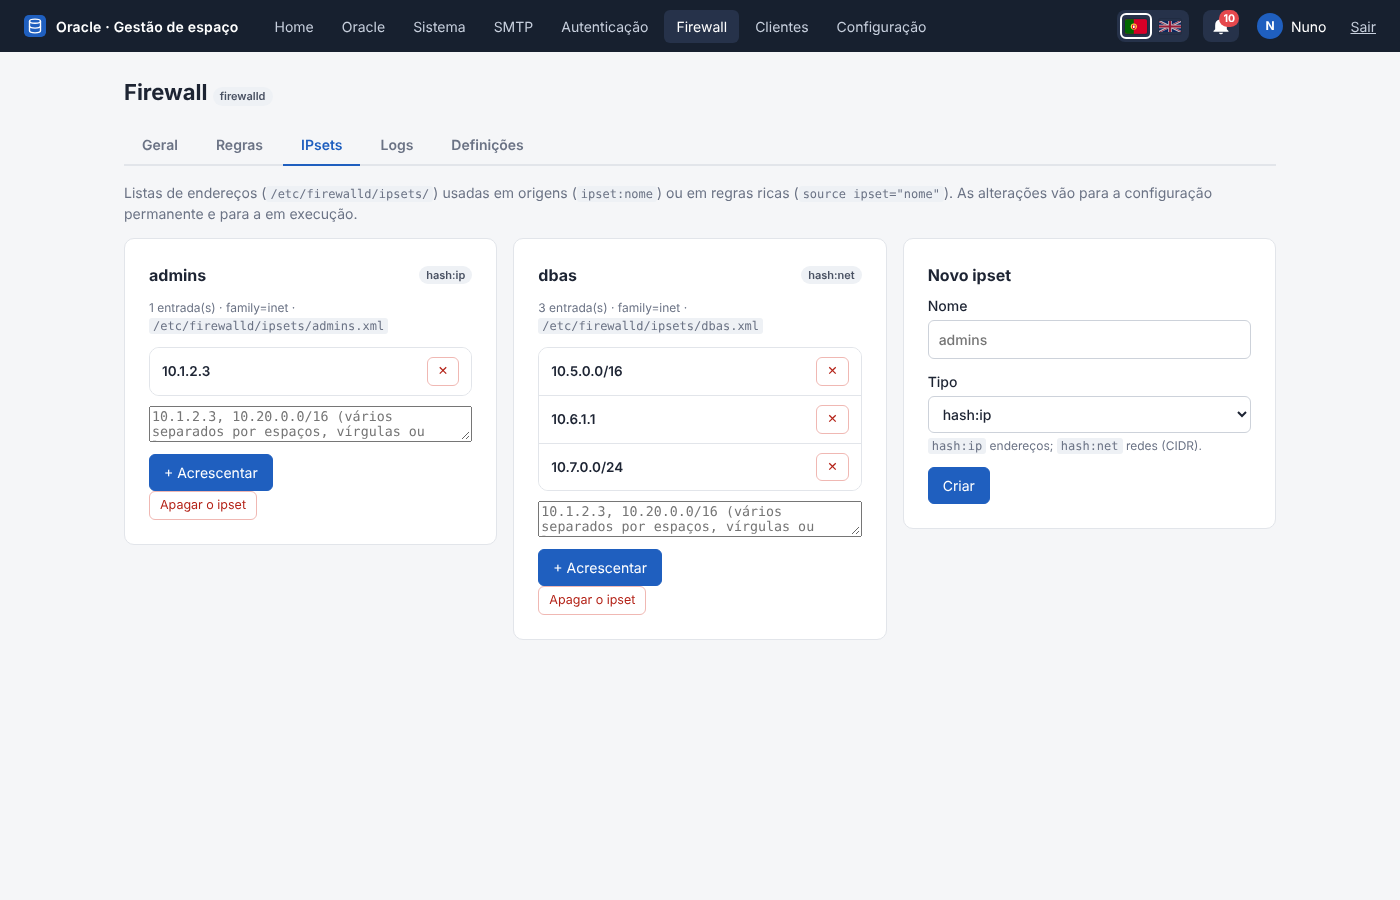
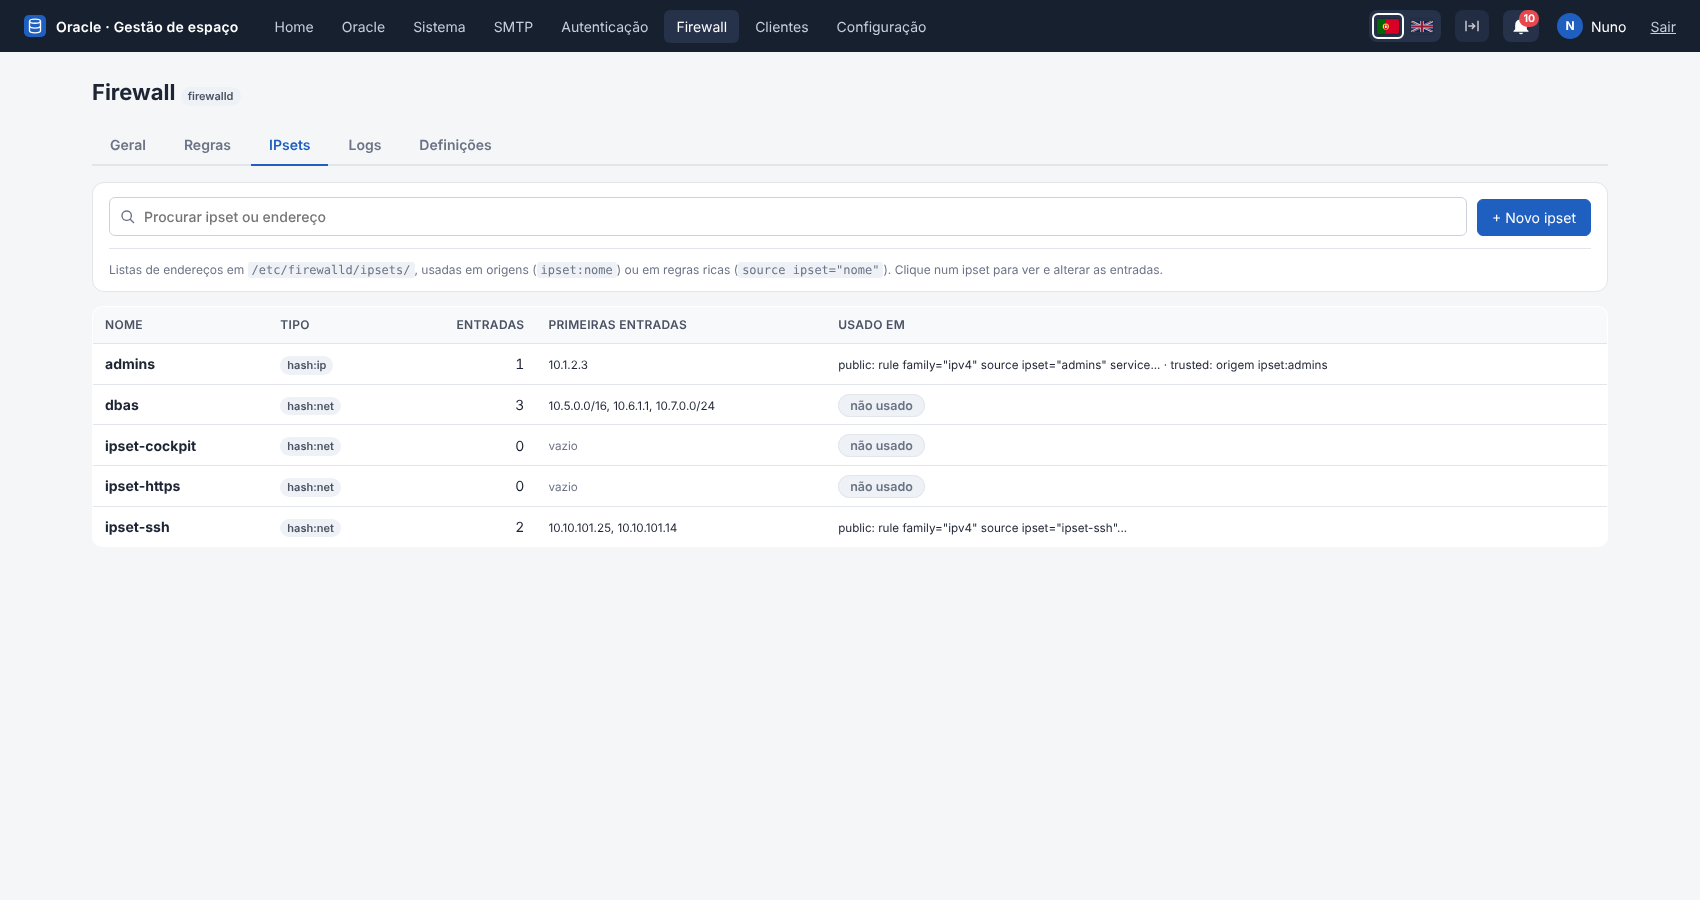
portal-oracle: ipsets em tabela com pagina por ipset; largura da pagina (auto/larga/normal)

diff --git a/docker/portal-oracle/app/modules/firewall/templates/firewall/ipsets.html b/docker/portal-oracle/app/modules/firewall/templates/firewall/ipsets.html
@@ -5,43 +5,50 @@
 {% if erro %}<div class="flash error" translate="no">{{ erro }}</div>{% endif %}
 {% if est.backend == 'ufw' %}<p class="muted">O ufw não tem ipsets (são do firewalld).</p>
 {% elif est.ativo %}
-<p class="muted">Listas de endereços (<code>/etc/firewalld/ipsets/</code>) usadas em origens (<code>ipset:nome</code>) ou em regras ricas
-  (<code>source ipset="nome"</code>). As alterações vão para a configuração permanente e para a em execução.</p>
-<div class="fw-grid">
-{% for s in ipsets %}
-<section class="card">
-  <div class="modulo-head"><h2 translate="no">{{ s.nome }}</h2><span class="tag" translate="no">{{ s.tipo }}</span></div>
-  <p class="muted small"><span>{{ s.n }} entrada(s)</span>{% if s.opcoes %} · <span translate="no">{{ s.opcoes }}</span>{% endif %} · <code translate="no">{{ s.ficheiro }}</code></p>
-  <div class="lista ipset-lista">{% for e in s.entradas[:300] %}<div class="lrow"><span class="lrow-t"><b translate="no">{{ e }}</b></span>
-    {% if pode %}<form method="post" action="{{ url_for('firewall.acao') }}" class="inline-form"><input type="hidden" name="csrf" value="{{ csrf_token }}">
-      <input type="hidden" name="acao" value="ipset_del"><input type="hidden" name="ipset" value="{{ s.nome }}"><input type="hidden" name="entrada" value="{{ e }}">
-      <input type="hidden" name="voltar" value="{{ request.path }}"><button class="small danger" aria-label="Retirar">✕</button></form>{% endif %}</div>
-  {% else %}<p class="muted small">Vazio.</p>{% endfor %}</div>
-  {% if s.n > 300 %}<p class="hint">… e mais {{ s.n - 300 }}.</p>{% endif %}
-  {% if pode %}
-  <form method="post" action="{{ url_for('firewall.acao') }}" class="stack fw-add">
-    <input type="hidden" name="csrf" value="{{ csrf_token }}"><input type="hidden" name="acao" value="ipset_add"><input type="hidden" name="ipset" value="{{ s.nome }}">
-    <input type="hidden" name="voltar" value="{{ request.path }}">
-    <textarea name="entrada" rows="2" placeholder="10.1.2.3, 10.20.0.0/16 (vários separados por espaços, vírgulas ou linhas)" translate="no" required></textarea>
-    <div class="buttons"><button class="primary">+ Acrescentar</button></div></form>
-  <form method="post" action="{{ url_for('firewall.acao') }}" onsubmit="return confirm('Apagar o ipset {{ s.nome }}? Regras que o usem deixam de funcionar.')">
-    <input type="hidden" name="csrf" value="{{ csrf_token }}"><input type="hidden" name="acao" value="ipset_apagar"><input type="hidden" name="ipset" value="{{ s.nome }}">
-    <input type="hidden" name="voltar" value="{{ request.path }}"><button class="small danger">Apagar o ipset</button></form>
-  {% endif %}
+<section class="jx-filtros">
+  <div class="jx-toolbar">
+    <label class="jx-search"><svg viewBox="0 0 24 24" width="16" height="16" aria-hidden="true"><path fill="currentColor" d="M10 2a8 8 0 0 1 6.32 12.9l5.39 5.4-1.42 1.4-5.39-5.38A8 8 0 1 1 10 2Zm0 2a6 6 0 1 0 0 12 6 6 0 0 0 0-12Z"/></svg>
+      <input type="search" id="q" placeholder="Procurar ipset ou endereço" autocomplete="off"></label>
+    {% if pode %}<button type="button" class="primary" id="bnovo">+ Novo ipset</button>{% endif %}
+  </div>
+  <div class="jx-linha2"><span class="muted small">Listas de endereços em <code>/etc/firewalld/ipsets/</code>, usadas em origens (<code>ipset:nome</code>)
+    ou em regras ricas (<code>source ipset="nome"</code>). Clique num ipset para ver e alterar as entradas.</span></div>
 </section>
-{% else %}<p class="muted">Não há ipsets.</p>{% endfor %}
+<div class="table-wrap"><table class="bd-tab" id="tab">
+  <thead><tr><th>Nome</th><th>Tipo</th><th class="num">Entradas</th><th>Primeiras entradas</th><th>Usado em</th></tr></thead>
+  <tbody>{% for s in ipsets %}{% set u = uso.get(s.nome, []) %}
+  <tr class="bd-linha" tabindex="0" data-href="{{ url_for('firewall.ipset', nome=s.nome) }}" data-txt="{{ (s.nome ~ ' ' ~ s.entradas|join(' '))|lower }}">
+    <td><b translate="no">{{ s.nome }}</b></td>
+    <td><span class="tag" translate="no">{{ s.tipo }}</span></td>
+    <td class="num">{{ s.n }}</td>
+    <td translate="no"><small>{{ s.entradas[:4]|join(', ') }}{% if s.n > 4 %} … (+{{ s.n - 4 }}){% endif %}{% if not s.n %}<span class="muted">vazio</span>{% endif %}</small></td>
+    <td>{% if u %}<small translate="no" title="{{ u|join('\n') }}">{{ u|map('truncate', 60)|join(' · ') if u|length < 3 else (u[0]|truncate(50)) ~ ' … +' ~ (u|length - 1) }}</small>
+        {% else %}<span class="sys-pill off">não usado</span>{% endif %}</td>
+  </tr>{% else %}<tr><td colspan="5" class="muted">Não há ipsets.</td></tr>{% endfor %}</tbody></table></div>
+
 {% if pode %}
-<section class="card">
-  <h2>Novo ipset</h2>
-  <form method="post" action="{{ url_for('firewall.acao') }}" class="stack">
+<dialog id="dnovo" class="jx-dlg">
+  <div class="jx-dlg-head"><div><h2>Novo ipset</h2></div><button type="button" class="small" id="dfechar" aria-label="Fechar">✕</button></div>
+  <form method="post" action="{{ url_for('firewall.acao') }}" class="stack dlg-corpo">
     <input type="hidden" name="csrf" value="{{ csrf_token }}"><input type="hidden" name="acao" value="ipset_novo"><input type="hidden" name="voltar" value="{{ request.path }}">
-    <label>Nome <input name="ipset" pattern="[A-Za-z0-9_.\-]{1,40}" required translate="no" placeholder="admins"></label>
-    <label>Tipo <select name="tipo">{% for t in tipos %}<option>{{ t }}</option>{% endfor %}</select>
-      <span class="hint"><code>hash:ip</code> endereços; <code>hash:net</code> redes (CIDR).</span></label>
+    <label>Nome <input name="ipset" pattern="[A-Za-z0-9_.\-]{1,40}" required translate="no" placeholder="ipset-oracle"></label>
+    <label>Tipo <select name="tipo">{% for t in tipos %}<option {{ 'selected' if t == 'hash:net' }}>{{ t }}</option>{% endfor %}</select>
+      <span class="hint"><code>hash:ip</code> endereços; <code>hash:net</code> redes (CIDR) e endereços.</span></label>
     <div class="buttons"><button class="primary">Criar</button></div>
   </form>
-</section>
+</dialog>
 {% endif %}
-</div>
 {% endif %}
+{% endblock %}
+{% block scripts %}
+<script>
+(() => {
+  const q = document.getElementById('q'); if (!q) return;
+  q.oninput = () => { const v = q.value.toLowerCase(); document.querySelectorAll('#tab tbody tr[data-txt]').forEach(tr => tr.hidden = v && !tr.dataset.txt.includes(v)); };
+  document.querySelectorAll('#tab tbody tr[data-href]').forEach(tr => { tr.onclick = () => location.href = tr.dataset.href;
+    tr.onkeydown = e => { if (e.key === 'Enter') location.href = tr.dataset.href; }; });
+  const d = document.getElementById('dnovo');
+  if (d) { document.getElementById('bnovo').onclick = () => d.showModal(); document.getElementById('dfechar').onclick = () => d.close(); }
+})();
+</script>
 {% endblock %}

diff --git a/docker/portal-oracle/app/modules/firewall/templates/firewall/ipset.html b/docker/portal-oracle/app/modules/firewall/templates/firewall/ipset.html
@@ -1,0 +1,57 @@
+{% extends "base.html" %}
+{% block title %}Firewall · IPset {{ s.nome if s }}{% endblock %}
+{% block content %}
+{% include "firewall/_tabs.html" %}
+<p><a href="{{ url_for('firewall.ipsets') }}">← IPsets</a></p>
+{% if erro %}<div class="flash error" translate="no">{{ erro }}</div>{% endif %}
+{% if s %}
+<div class="modulo-head"><h2><span translate="no">{{ s.nome }}</span> <span class="tag" translate="no">{{ s.tipo }}</span></h2>
+  {% if pode %}<form method="post" action="{{ url_for('firewall.acao') }}" onsubmit="return confirm('Apagar o ipset {{ s.nome }}? Regras que o usem deixam de funcionar.')">
+    <input type="hidden" name="csrf" value="{{ csrf_token }}"><input type="hidden" name="acao" value="ipset_apagar"><input type="hidden" name="ipset" value="{{ s.nome }}">
+    <input type="hidden" name="voltar" value="{{ url_for('firewall.ipsets') }}"><button class="small danger">Apagar o ipset</button></form>{% endif %}</div>
+<div class="fw-ipset">
+<section class="card full">
+  <div class="modulo-head"><h2>Entradas <span class="muted small">({{ s.n }})</span></h2>
+    <label class="jx-search fw-q"><input type="search" id="q" placeholder="Filtrar" value="{{ q }}" autocomplete="off"></label></div>
+  <div class="table-wrap"><table class="small-tab" id="tab">
+    <thead><tr><th>Endereço / rede</th><th></th></tr></thead>
+    <tbody>{% for e in s.entradas %}<tr data-txt="{{ e|lower }}"><td translate="no"><b>{{ e }}</b></td>
+      <td class="num">{% if pode %}<form method="post" action="{{ url_for('firewall.acao') }}" class="inline-form" onsubmit="return confirm('Retirar {{ e }}?')">
+        <input type="hidden" name="csrf" value="{{ csrf_token }}"><input type="hidden" name="acao" value="ipset_del"><input type="hidden" name="ipset" value="{{ s.nome }}">
+        <input type="hidden" name="entrada" value="{{ e }}"><input type="hidden" name="voltar" value="{{ request.path }}">
+        <button class="small danger" aria-label="Retirar" title="Retirar">✕</button></form>{% endif %}</td></tr>
+    {% else %}<tr><td colspan="2" class="muted">Vazio.</td></tr>{% endfor %}</tbody></table></div>
+</section>
+<div class="fw-lado">
+  {% if pode %}
+  <section class="card full">
+    <h2>Acrescentar</h2>
+    <form method="post" action="{{ url_for('firewall.acao') }}" class="stack">
+      <input type="hidden" name="csrf" value="{{ csrf_token }}"><input type="hidden" name="acao" value="ipset_add"><input type="hidden" name="ipset" value="{{ s.nome }}">
+      <input type="hidden" name="voltar" value="{{ request.path }}">
+      <textarea name="entrada" rows="5" placeholder="10.1.2.3&#10;10.20.0.0/16" translate="no" required></textarea>
+      <span class="hint">Vários separados por espaços, vírgulas ou linhas (até 500).</span>
+      <div class="buttons"><button class="primary">+ Acrescentar</button></div></form>
+  </section>
+  {% endif %}
+  <section class="card full">
+    <h2>Informação</h2>
+    {% from "_cartoes.html" import kv %}
+    {{ kv([('Tipo', s.tipo), ('Opções', s.opcoes), ('Ficheiro', s.ficheiro)]) }}
+    <h3>Usado em</h3>
+    {% if usado %}<ul class="fw-uso" translate="no">{% for u in usado %}<li><code>{{ u }}</code></li>{% endfor %}</ul>
+    {% else %}<p class="muted small">Em nenhuma origem nem regra rica (configuração permanente).</p>{% endif %}
+    <p class="hint">Usar numa zona: Regras → Origens com <code translate="no">ipset:{{ s.nome }}</code>, ou numa regra rica com
+      <code translate="no">source ipset="{{ s.nome }}"</code>.</p>
+  </section>
+</div>
+</div>
+{% endif %}
+{% endblock %}
+{% block scripts %}
+<script>
+(() => { const q = document.getElementById('q'); if (!q) return;
+  const f = () => { const v = q.value.toLowerCase(); document.querySelectorAll('#tab tbody tr[data-txt]').forEach(tr => tr.hidden = v && !tr.dataset.txt.includes(v)); };
+  q.oninput = f; f(); })();
+</script>
+{% endblock %}

diff --git a/docker/portal-oracle/app/templates/base.html b/docker/portal-oracle/app/templates/base.html
@@ -6,6 +6,7 @@
   <title>{% block title %}{% endblock %} · {{ portal_name }}</title>
   <link rel="icon" href="{{ url_for('portal.favicon', v=favicon_ver) }}">
   <link rel="stylesheet" href="{{ url_for('static', filename='style.css', v=static_v) }}">
+  <script>try { document.documentElement.dataset.largura = localStorage.getItem('portal.largura') || 'auto'; } catch (e) {}</script>
   {% if lingua != 'pt' %}
   <style>html.i18n body { visibility: hidden; }</style>
   <script src="{{ url_for('portal.i18n_js', codigo=lingua, v=i18n_v) }}"></script>
@@ -41,6 +42,8 @@
     {% endif %}
   {% if user %}
     {% if not pagina_minima %}
+    <button type="button" class="largura-btn" id="largura" title="Largura da página" aria-label="Largura da página">
+      <svg viewBox="0 0 24 24" width="18" height="18" aria-hidden="true"><path fill="currentColor" d="M3 5h2v14H3V5Zm16 0h2v14h-2V5ZM7 11h6.2l-2.1-2.1 1.4-1.4L17 12l-4.5 4.5-1.4-1.4 2.1-2.1H7v-2Z"/></svg></button>
     <div class="bell-wrap">
       <button type="button" class="bell" id="bell" title="Notificações" aria-label="Notificações">
         <svg viewBox="0 0 24 24" width="20" height="20" aria-hidden="true"><path fill="currentColor" d="M12 22a2.5 2.5 0 0 0 2.45-2h-4.9A2.5 2.5 0 0 0 12 22Zm7-6V11a7 7 0 0 0-5-6.7V3.5a2 2 0 1 0-4 0v.8A7 7 0 0 0 5 11v5l-2 2v1h18v-1l-2-2Z"/></svg>
@@ -109,5 +112,17 @@ document.querySelectorAll('[data-lingua]').forEach(b => b.onclick = async () => 
 </script>
 {% endif %}
 {% block scripts %}{% endblock %}
+<script>
+(() => {
+  const b = document.getElementById('largura'); if (!b) return;
+  const MODOS = ['auto', 'largo', 'normal'], NOMES = {auto: 'Largura automática (aproveita ecrãs grandes)', largo: 'Toda a largura da janela', normal: 'Largura normal (centrada)'};
+  const tt = s => (window.t || (x => x))(s);
+  const pinta = () => { const m = document.documentElement.dataset.largura || 'auto'; b.title = tt(NOMES[m]) + ' · ' + tt('clique para mudar');
+    b.style.transform = m === 'normal' ? 'scaleX(-1)' : ''; b.style.opacity = m === 'auto' ? '.75' : '1'; };
+  b.onclick = () => { const h = document.documentElement, m = MODOS[(MODOS.indexOf(h.dataset.largura || 'auto') + 1) % 3];
+    h.dataset.largura = m; try { localStorage.setItem('portal.largura', m); } catch (e) {} pinta(); };
+  pinta();
+})();
+</script>
 </body>
 </html>

diff --git a/docker/portal-oracle/app/static/style.css b/docker/portal-oracle/app/static/style.css
@@ -660,3 +660,20 @@ tr.clicavel:hover td { background: var(--hover); }
 .ev-msg { white-space: pre-wrap; word-break: break-word; max-width: 560px; font-family: var(--mono, monospace); font-size: 12px; }
 .nowrap { white-space: nowrap; }
 .inst .tok { color: var(--accent, #2563eb); font-weight: 600; }
+.fw-ipset { display: grid; grid-template-columns: minmax(0, 1.4fr) minmax(300px, 1fr); gap: 16px; align-items: start; }
+.fw-lado { display: grid; gap: 16px; }
+.fw-ipset .card { max-width: none; }
+.fw-q input { min-width: 200px; }
+.fw-uso { margin: 6px 0; padding-left: 18px; }
+.fw-uso code { white-space: normal; word-break: break-all; }
+td.num, th.num { text-align: right; }
+@media (max-width: 900px) { .fw-ipset { grid-template-columns: 1fr; } }
+
+/* Largura da area central: auto (aproveita ecras grandes), largo (toda a janela) ou normal (1200 px) */
+main { max-width: max(1200px, min(92vw, 1760px)); }
+html[data-largura="largo"] main { max-width: none; }
+html[data-largura="normal"] main { max-width: 1200px; }
+html[data-largura="largo"] .card:not(.narrow) { max-width: none; }
+.largura-btn { display: inline-flex; align-items: center; justify-content: center; width: 34px; height: 32px; border: 0; border-radius: 8px;
+  background: var(--top-hover); color: inherit; cursor: pointer; padding: 0; }
+.largura-btn:hover { filter: brightness(1.15); }

diff --git a/docker/portal-oracle/app/modules/firewall/views.py b/docker/portal-oracle/app/modules/firewall/views.py
@@ -1,5 +1,5 @@
 """Rotas do modulo Firewall."""
-from flask import flash, g, jsonify, redirect, render_template, request, url_for
+from flask import abort, flash, g, jsonify, redirect, render_template, request, url_for
 
 from ... import auth, firewall, sistema_info
 from . import bp, MODULO
@@ -45,13 +45,30 @@ def regras():
 @auth.requires(MODULO.acesso)
 def ipsets():
     c = _ctx()
-    lista, erro = [], ""
+    lista, erro, uso = [], "", {}
     try:
         if c["est"].get("backend") == "firewalld" and c["est"].get("ativo"):
             lista = firewall.ipsets()
+            uso = firewall.uso_ipsets(c["est"].get("zonas", []))
     except ValueError as exc:
         erro = str(exc)
-    return render_template("firewall/ipsets.html", ipsets=lista, erro=erro, tipos=firewall.TIPOS_IPSET, **c)
+    return render_template("firewall/ipsets.html", ipsets=lista, erro=erro, uso=uso, tipos=firewall.TIPOS_IPSET, **c)
+
+
+@bp.route("/ipsets/<nome>")
+@auth.requires(MODULO.acesso)
+def ipset(nome):
+    c = _ctx()
+    s, erro, usado = None, "", []
+    try:
+        if c["est"].get("backend") == "firewalld" and c["est"].get("ativo"):
+            s = next((x for x in firewall.ipsets() if x["nome"] == nome), None)
+            if not s:
+                abort(404)
+            usado = firewall.uso_ipsets(c["est"].get("zonas", [])).get(nome, [])
+    except ValueError as exc:
+        erro = str(exc)
+    return render_template("firewall/ipset.html", s=s, erro=erro, usado=usado, q=request.args.get("q", ""), **c)
 
 
 @bp.route("/logs")

diff --git a/docker/portal-oracle/app/firewall.py b/docker/portal-oracle/app/firewall.py
@@ -164,6 +164,23 @@ def ipsets() -> list[dict]:
     return lista
 
 
+def uso_ipsets(zonas: list) -> dict:
+    """{ipset: [onde e usado]}: origens (ipset:nome) e regras ricas (ipset="nome"), por zona (permanente)."""
+    out: dict = {}
+    for z in zonas:
+        try:
+            d = zona(z, True)
+        except ValueError:
+            continue
+        for src in d.get("sources", []):
+            if src.startswith("ipset:"):
+                out.setdefault(src[6:], []).append(f"{z}: origem {src}")
+        for r in d.get("rich rules", []):
+            for n in re.findall(r'ipset="([^"]+)"', r):
+                out.setdefault(n, []).append(f"{z}: {r}")
+    return out
+
+
 def regras_ufw() -> list[dict]:
     rc, out = ufw("status", "numbered")
     if rc != 0:

diff --git a/docker/portal-oracle/README.md b/docker/portal-oracle/README.md
@@ -346,7 +346,7 @@ Ver e alterar a firewall do servidor do portal. Ative-o em **Configuração → 
 |---|---|
 | Geral | Estado (ativa/parada, versão), zona por omissão, LogDenied, modo pânico, zonas ativas (interfaces e origens), **Recarregar** e as últimas alterações feitas pelo portal (comando, utilizador e resultado) |
 | Regras | Por zona e por configuração (em execução / permanente): serviços, portas, origens (IP, rede ou `ipset:nome`), regras ricas e outros (target, masquerade, forward). No ufw, as regras numeradas. Acrescentar e apagar |
-| IPsets | Os ipsets (`/etc/firewalld/ipsets/`) com o tipo e as entradas; criar, apagar, acrescentar várias entradas de uma vez e retirar |
+| IPsets | Tabela dos ipsets (`/etc/firewalld/ipsets/`): tipo, número e primeiras entradas, e onde são usados (origens e regras ricas). Clicar abre o ipset: entradas com filtro, acrescentar várias de uma vez, retirar, apagar o ipset |
 | Logs | Registo do serviço `firewalld` e pacotes recusados (registo do kernel), com filtro |
 | Definições | Versão, ficheiros de configuração, serviços predefinidos, LogDenied, modo pânico e as permissões do portal |
 
@@ -365,6 +365,7 @@ Sem isto, as abas mostram o comando a correr. Iniciar, parar e reiniciar o `fire
 ![Firewall](docs/firewall.png)
 ![Firewall - Regras](docs/firewall-regras.png)
 ![Firewall - IPsets](docs/firewall-ipsets.png)
+![Firewall - um ipset](docs/firewall-ipset.png)
 
 ---
 
@@ -1167,6 +1168,8 @@ Só é preciso refazer a imagem (`docker-compose build`) para mudar o sistema ba
 ---
 
 ## Aparência: título, rodapé, ícone e tema
+
+**Largura da página:** o botão ao lado das notificações alterna entre *automática* (por omissão: centrada e alarga em ecrãs grandes, até 92 % da janela), *toda a largura* e *normal* (1200 px). Fica guardada no browser de cada utilizador.
 
 Em **Configuração → Aparência → Geral** (permissão `config.portal`; a sub-aba **Linguagem** está em [Línguas](#línguas-português-e-inglês)):
 

diff --git a/docker/portal-oracle/CONVERSA.md b/docker/portal-oracle/CONVERSA.md
@@ -366,3 +366,10 @@ Chat de 20 de novembro de 2026. Pedido grande, feito por fases (cada uma com o s
 **Resposta — fase 3, módulo Firewall:** firewalld ou ufw (deteção automática), abas Geral (estado, zonas ativas, recarregar, histórico de alterações), Regras (serviços, portas, origens, regras ricas por zona; regras numeradas no ufw), IPsets (criar, apagar, entradas), Logs (serviço e pacotes recusados) e Definições (versão, LogDenied, modo pânico). Permissões com `instalar.sh --firewall <nome> on`.
 
 **Resposta — fase 4, agente cliente (módulo Clientes):** clientes em Configuração → Clientes (nome, IP/DNS, VM, Debian ou Red Hat, utilizador SSH) com token, comandos de instalação por distribuição e **Testar** (DNS, porta SSH, SSH com a chave do portal e known_hosts próprio, último contacto). Agente em `/opt/agente-portal/` (Python 3 sem dependências) com `.env` cifrado, serviço systemd, socket local e fila; `setup.sh` verifica o utilizador SSH (`authorized_keys`, permissões) e acrescenta a chave do portal. Regras de notificação com id gerado e log opcional (última linha); `agente-portal notificar <ID> ...` para os scripts (rman, shrink, montagens). O intervalo de sincronização vê-se no portal e muda-se só no cliente. Traduções em inglês dos textos novos.
+
+## 24. IPsets em tabela, largura da página e agente no --lista
+
+**Pergunta:**
+> melhorar o aspecto o ipsets, pode ser uma tabela e depois ao clicar vai para a ipsets concreta. Agora nem aparece o dba-portal-agente. Podemos também melhorar o aspecto da janela centra, pode ser dinamico [...]
+
+**Resposta:** IPsets em tabela (tipo, entradas, onde são usados) com página por ipset; botão de largura da página (automática, toda a largura, normal); no `instalar.sh --lista` o agente aparece na coluna AGENTE da instância.
